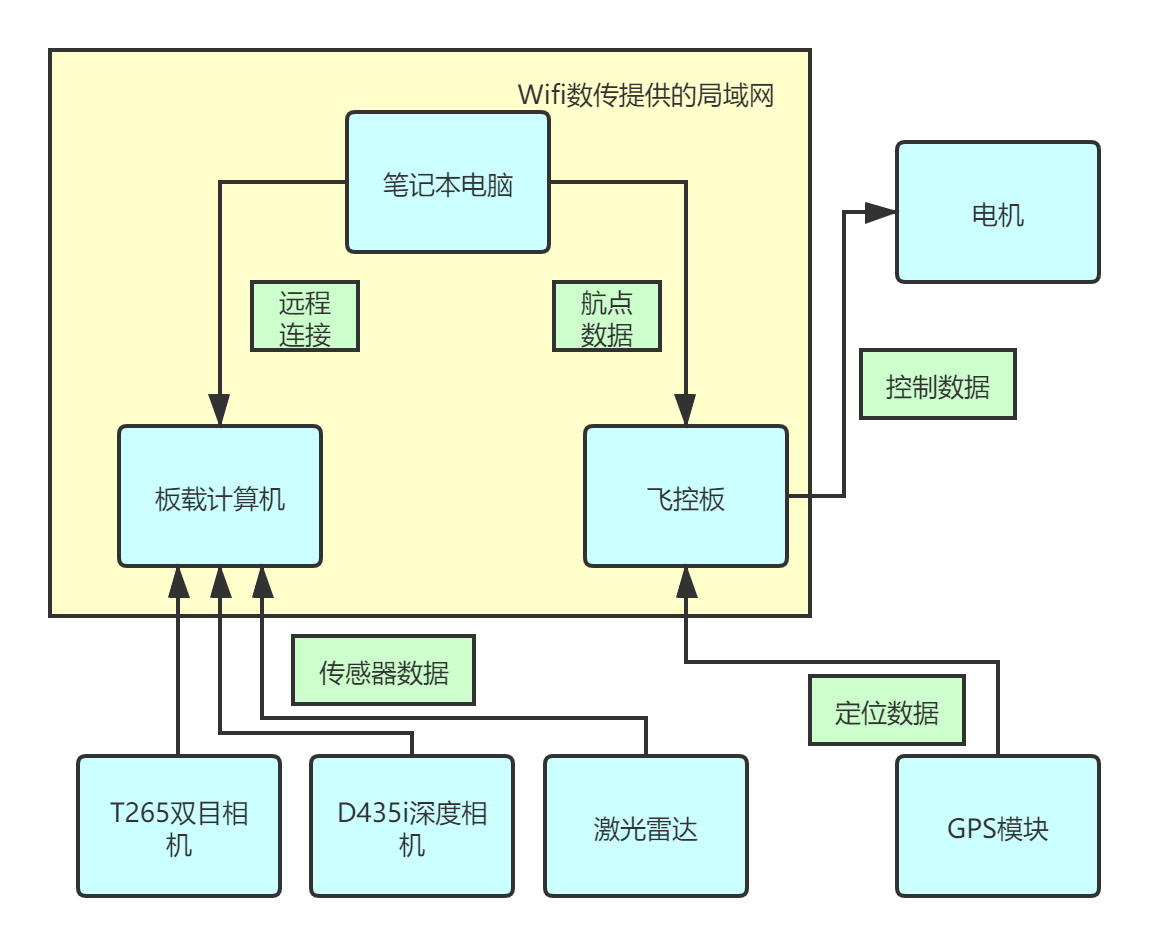
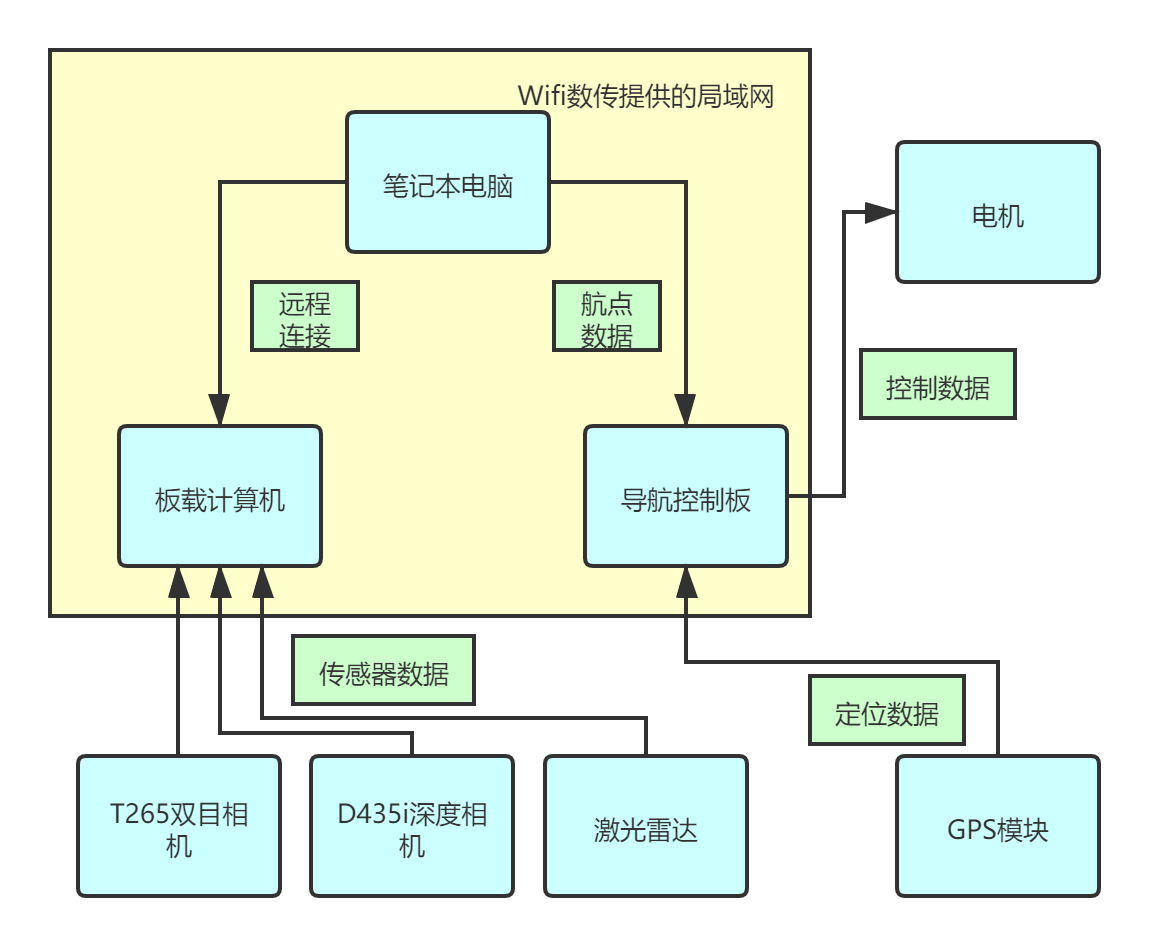
修改一些细节上的问题

diff --git a/doc/source/docs/R300/操作流程.rst b/doc/source/docs/R300/操作流程.rst
@@ -4,7 +4,7 @@
 如何连接无人车？
 -------------------
 
-在使用无人车之前，需了解如何连接无人车，连接无人车需要用到两个软件，一是Mission Planner地面站用于连接飞控,
+在使用无人车之前，需了解如何连接无人车，连接无人车需要用到两个软件，一是Mission Planner地面站用于连接导航控制板,
 二是NoMahine用于连接板载计算机远程显示，在软件框架介绍板块有两个软件的下载链接，需安装到自己的电脑上。
 
 连接步骤如下所示：
@@ -23,14 +23,14 @@
 
     .. image:: ../../images/R200/R200-wifi.png
 
-    标注了Wifi名称以及密码。其中Wifi地址和端口号指地面站连接飞控时，需要输入的IP地址和端口号。
+    标注了Wifi名称以及密码。其中Wifi地址和端口号指地面站连接导航控制板时，需要输入的IP地址和端口号。
 
 2.在出现的终端中输入arp -a可查看该局域网所有的IP地址，我们只需关注192.168.10.**网段的ip地址，一般情况下，该网段会出现三个IP地址
-一是无人车飞控，二是无人车板载计算机，三是用户电脑端。
+一是无人车导航控制板，二是无人车板载计算机，三是用户电脑端。
 
 .. image:: ../../images/R200/R200-arp.png
 
-无人机飞控为固定IP，为无人车侧面标签的Wifi地址，图中为192.168.10.134
+无人车导航控制板为固定IP，为无人车侧面标签的Wifi地址，图中为192.168.10.134
 
 在Windows终端中“接口：”后的ip地址为用户客户端ip，图中为192.168.10.100
 
@@ -80,7 +80,7 @@
 2.将遥控器开机，并将SWB档杆打至中间位置切换无人车为遥控器控制模式，控制无人车移动到测试场地
 
 .. tip::
-    因无人车在飞控启动时的点认为是Home点，建议到达测试场地后重启无人车
+    因无人车在导航控制板启动时的点认为是Home点，建议到达测试场地后重启无人车
 
 3.连接无人车的Wifi，用Mission Planner地面站连接无人车
 
@@ -88,7 +88,7 @@
 左上角以及下方会显示航点相关属性以及设置，可根据情况适当修改，航点设置好以后，点击右侧的写入航点。
 
 .. note::
-    按以上步骤操作完成后，再启动板载计算机，可直接运行航点相关脚本文件，板载计算机连接飞控时，会采用之前设置的航点，新设置的航点，
+    按以上步骤操作完成后，再启动板载计算机，可直接运行航点相关脚本文件，板载计算机连接导航控制板时，会采用之前设置的航点，新设置的航点，
     板载计算机无法获取，可以理解为每设置一次航点后，无人车都需要重启一次，新的航点才会生效。
 
 

diff --git a/doc/source/docs/R200/操作流程.rst b/doc/source/docs/R200/操作流程.rst
@@ -4,7 +4,7 @@
 如何连接无人车？
 -------------------
 
-在使用无人车之前，需了解如何连接无人车，连接无人车需要用到两个软件，一是Mission Planner地面站用于连接飞控,
+在使用无人车之前，需了解如何连接无人车，连接无人车需要用到两个软件，一是Mission Planner地面站用于连接导航控制板,
 二是NoMahine用于连接板载计算机远程显示，在软件框架介绍板块有两个软件的下载链接，需安装到自己的电脑上。
 
 连接步骤如下所示：
@@ -23,14 +23,14 @@
 
     .. image:: ../../images/R200/R200-wifi.png
 
-    标注了Wifi名称以及密码。其中Wifi地址和端口号指地面站连接飞控时，需要输入的IP地址和端口号。
+    标注了Wifi名称以及密码。其中Wifi地址和端口号指地面站连接导航控制板时，需要输入的IP地址和端口号。
 
 2.在出现的终端中输入arp -a可查看该局域网所有的IP地址，我们只需关注192.168.10.**网段的ip地址，一般情况下，该网段会出现三个IP地址
-一是无人车飞控，二是无人车板载计算机，三是用户电脑端。
+一是无人车导航控制板，二是无人车板载计算机，三是用户电脑端。
 
 .. image:: ../../images/R200/R200-arp.png
 
-无人机飞控为固定IP，为无人车侧面标签的Wifi地址，图中为192.168.10.134
+无人车导航控制板为固定IP，为无人车侧面标签的Wifi地址，图中为192.168.10.134
 
 在Windows终端中“接口：”后的ip地址为用户客户端ip，图中为192.168.10.100
 
@@ -91,7 +91,7 @@
 
 .. image:: ../../images/R200/R200-ekf.png
 
-正常情况下，会出现一个紫色小车图案，此时，意味着无人车室内定位数据已接入飞控。
+正常情况下，会出现一个紫色小车图案，此时，意味着无人车室内定位数据已接入导航控制板。
 
 6.在地面站中点击左上角的飞行计划，进入到航点设置界面，鼠标左键点击地图上任意一个点，便可设置航点
 左上角以及下方会显示航点相关属性以及设置，可根据情况适当修改，航点设置好以后，点击右侧的写入航点。

diff --git a/doc/source/docs/R300/硬件框架介绍.rst b/doc/source/docs/R300/硬件框架介绍.rst
@@ -11,24 +11,24 @@
 
 其中，黄色框表示
 **Wifi数传提供的局域网**
-，可以看到，该局域网中，无人车的板载计算机以及飞控板都接入了该局域网，
-其中飞控板是通过
+，可以看到，该局域网中，无人车的板载计算机以及导航控制板板都接入了该局域网，
+其中导航控制板板是通过
 **TELEM1**
 口接入该局域网，板载计算机是通过无线连接数传的Wifi接入该局域网。
 用户的笔记本电脑在使用时也应接入无人车Wifi数传的局域网中。
 
-T265，D435i,激光雷达传感器模块将通过USB接口接入到板载计算机中。其中飞控板与板载计算机的数据交互也是通过USB线连接。
+T265，D435i,激光雷达传感器模块将通过USB接口接入到板载计算机中。其中导航控制板板与板载计算机的数据交互也是通过USB线连接。
 
 .. tip::
-    需要注意，激光雷达与飞控会存在串口识别混淆的问题，我们已设置了串口硬链接解决该问题，但飞控和激光雷达的USB接口不可移动
+    需要注意，激光雷达与导航控制板会存在串口识别混淆的问题，我们已设置了串口硬链接解决该问题，但导航控制板和激光雷达的USB接口不可移动
 
     可重新插拔，但不可移动位置。
 
 GPS模块通过
 **GPS MODULE**
-口接入飞控板
+口接入导航控制板板
 
 下位机通过CAN转USB连接线接入到板载计算机，获取由板载计算机传递过来的控制数据
 
-板载计算机整合飞控相关数据，并接收飞控传递的控制数据下发给下位机，下位机将
+板载计算机整合导航控制板相关数据，并接收导航控制板传递的控制数据下发给下位机，下位机将
 控制数据转化为电机的控制数据，控制无人车轮胎转动，从而实现无人车的运动控制。

diff --git a/doc/source/docs/R200/常见问题处理.rst b/doc/source/docs/R200/常见问题处理.rst
@@ -4,8 +4,8 @@
 地面站显示罗盘报错
 -----------------------
 
-飞控室内参数由于定位采用T265提供的定位数据，因此会将罗盘禁止掉，禁止掉后地面站会出现罗盘报错的信息，同时GPS也会被禁止掉，也会显红。
-如果是飞控室外参数出现该报错，需考虑是否是周围环境干扰导致，如果一直出现，请参考Mission Planner地面站介绍中的校准部分内容进行校准。
+导航控制板室内参数由于定位采用T265提供的定位数据，因此会将罗盘禁止掉，禁止掉后地面站会出现罗盘报错的信息，同时GPS也会被禁止掉，也会显红。
+如果是导航控制板室外参数出现该报错，需考虑是否是周围环境干扰导致，如果一直出现，请参考Mission Planner地面站介绍中的校准部分内容进行校准。
 
 无人车遥控器无法控制无人车移动
 ------------------------------
